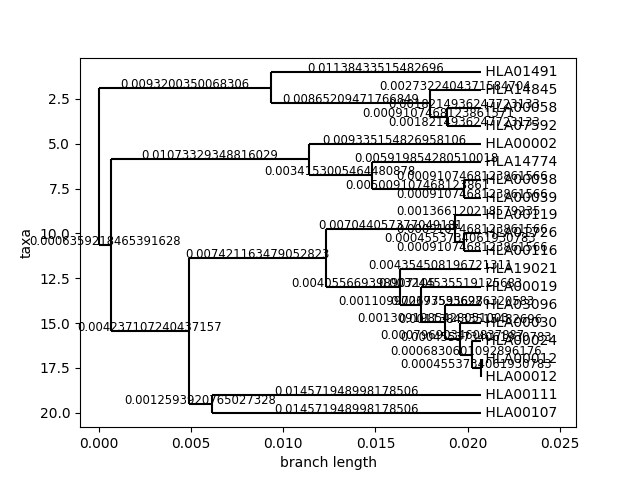
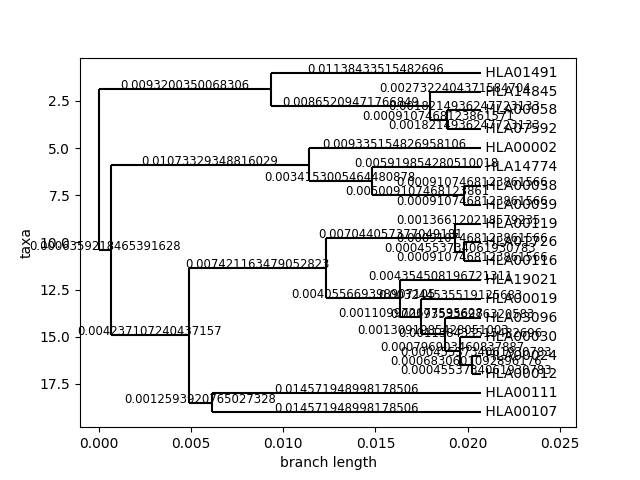
modified font size, remove dup

diff --git a/NeighborJoiningV2.py b/NeighborJoiningV2.py
@@ -158,9 +158,9 @@ def saveGraph(G, names):
         G, pos, ax=ax
     )
     weights = nx.get_edge_attributes(G, 'lengthx')
-    nx.draw_networkx_edge_labels(G, pos, edge_labels=weights)
+    nx.draw_networkx_edge_labels(G, pos, font_size=5, edge_labels=weights)
     nx.draw_networkx_labels(
-        G, pos, ax=ax, labels=nameLabels, font_size=10,
+        G, pos, ax=ax, labels=nameLabels, font_size=8,
         # Draw a white background behind the labeled nodes
         # for better readability
         bbox=dict(pad=0, color="white")
